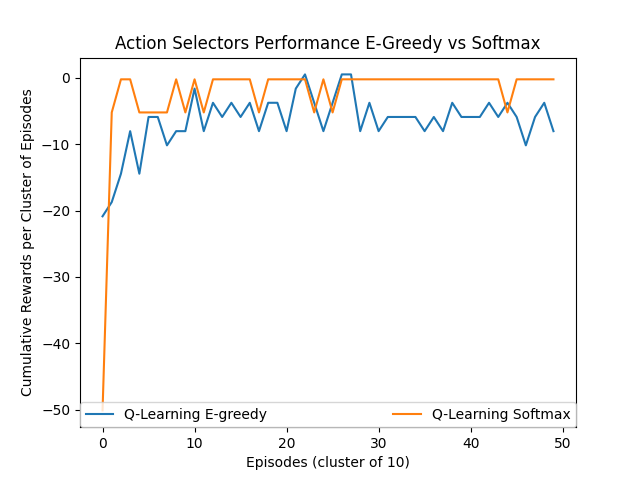
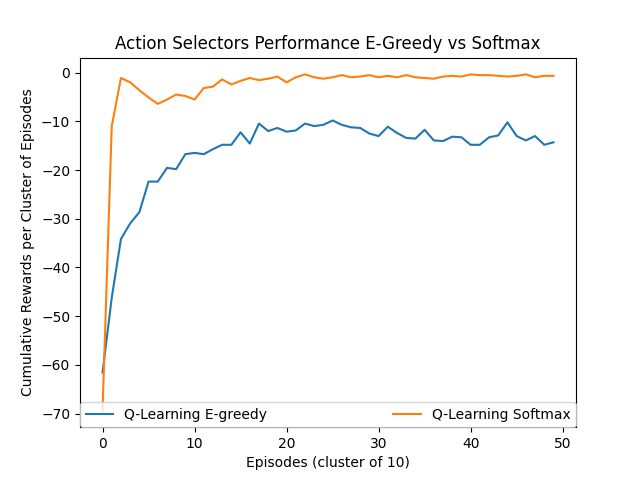
Updated version

diff --git a/CliffWorld.py b/CliffWorld.py
@@ -221,22 +221,23 @@ def plot_cumreward_normalized(reward_cache_qlearning, reward_cache_SARSA):
     # prepare the graph  
 
     """Uncomment this to create a plot about Q-learning vs SARSA"""
-    plt.plot(cum_rewards_q, label = "Q-Learning")
-    plt.plot(cum_rewards_SARSA, label = "SARSA")
-    plt.ylabel('Cumulative Rewards per Cluster of Episodes')
-    plt.xlabel('Episodes (cluster of 10)')
-    plt.title("Q-Learning/SARSA Performance")
-    plt.legend(loc='lower right', ncol=2, mode="expand", borderaxespad=0.)
-    plt.savefig('performance-qlearning-sarsa')
-
-    """Uncomment this to create a plot about softmax vs e-greedy"""
-    # plt.plot(cum_rewards_q, label = "Q-Learning E-greedy")
-    # plt.plot(cum_rewards_SARSA, label = "Q-Learning Softmax")
+    # plt.plot(cum_rewards_q, label = "Q-Learning")
+    # plt.plot(cum_rewards_SARSA, label = "SARSA")
     # plt.ylabel('Cumulative Rewards per Cluster of Episodes')
     # plt.xlabel('Episodes (cluster of 10)')
-    # plt.title("Action Selectors Performance E-Greedy vs Softmax")
+    # plt.yticks(np.arange(-60, 1, step=10))  # Set label locations.
+    # plt.title("Q-Learning/SARSA Performance")
     # plt.legend(loc='lower right', ncol=2, mode="expand", borderaxespad=0.)
-    # plt.savefig('performance-action-selectors')
+    # plt.savefig('performance-qlearning-sarsa_epsilon01')
+
+    """Uncomment this to create a plot about softmax vs e-greedy"""
+    plt.plot(cum_rewards_q, label = "Q-Learning E-greedy")
+    plt.plot(cum_rewards_SARSA, label = "Q-Learning Softmax")
+    plt.ylabel('Cumulative Rewards per Cluster of Episodes')
+    plt.xlabel('Episodes (cluster of 10)')
+    plt.title("Action Selectors Performance E-Greedy vs Softmax")
+    plt.legend(loc='lower right', ncol=2, mode="expand", borderaxespad=0.)
+    plt.savefig('performance-action-selectors')
 
 def plot_cumreward_normalized_temperatures(reward_cache1, reward_cache2, reward_cache3, reward_cache4):
     cum_rewards_1 = []
@@ -346,46 +347,76 @@ if __name__ == "__main__":
     """To Generate Figure Performance SARSA with softmax different temperatures
         uncomment to use
     """
-    # ag = Agent(epsilon=0.1, lr=0.1, sarsa=False, softmax=True, temp=0.5) #settings for agent
-    # reward_cache_temp05, _ = ag.learn(iterations=500) #used for training the agent 
-    # calculateOptimalPolicy(ag) #calculating optimal policy
+    # reward_cache_temp05_sum = []
+    # for i in range(1,10):
+    #     ag = Agent(epsilon=0.1, lr=0.1, sarsa=False, softmax=True, temp=0.5) #settings for agent
+    #     reward_cache_temp05, _ = ag.learn(iterations=500) #used for training the agent 
+    #     if i == 1: reward_cache_temp05_sum = reward_cache_temp05
+    #     else: reward_cache_temp05_sum = [a + b for a, b in zip(reward_cache_temp05_sum, reward_cache_temp05)]
+    # end_data_reward_cache_temp05 = [a / 10 for a in reward_cache_temp05_sum]
 
-    # ag = Agent(epsilon=0.1, lr=0.1, sarsa=True, softmax=True, temp=0.9) #settings for agent
-    # reward_cache_temp09, _ = ag.learn(iterations=500) #used for training the agent 
-    # calculateOptimalPolicy(ag)
+    # reward_cache_temp09_sum = []
+    # for i in range(1,10):
+    #     ag = Agent(epsilon=0.1, lr=0.1, sarsa=False, softmax=True, temp=0.9) #settings for agent
+    #     reward_cache_temp09, _ = ag.learn(iterations=500) #used for training the agent 
+    #     if i == 1: reward_cache_temp09_sum = reward_cache_temp09
+    #     else: reward_cache_temp09_sum = [a + b for a, b in zip(reward_cache_temp09_sum, reward_cache_temp09)]
+    # end_data_reward_cache_temp09 = [a / 10 for a in reward_cache_temp09_sum]
 
-    # ag = Agent(epsilon=0.1, lr=0.1, sarsa=False, softmax=True, temp=5) #settings for agent
-    # reward_cache_temp5, _ = ag.learn(iterations=500) #used for training the agent 
-    # calculateOptimalPolicy(ag) #calculating optimal policy
+    # reward_cache_temp5_sum = []
+    # for i in range(1,10):
+    #     ag = Agent(epsilon=0.1, lr=0.1, sarsa=False, softmax=True, temp=5) #settings for agent
+    #     reward_cache_temp5, _ = ag.learn(iterations=500) #used for training the agent 
+    #     if i == 1: reward_cache_temp5_sum = reward_cache_temp5
+    #     else: reward_cache_temp5_sum = [a + b for a, b in zip(reward_cache_temp5_sum, reward_cache_temp5)]
+    # end_data_reward_cache_temp5 = [a / 10 for a in reward_cache_temp5_sum]
 
-    # ag = Agent(epsilon=0.1, lr=0.1, sarsa=False, softmax=True, temp=15) #settings for agent
-    # reward_cache_temp15, _ = ag.learn(iterations=500) #used for training the agent 
-    # calculateOptimalPolicy(ag) #calculating optimal policy
+    # reward_cache_temp15_sum = []
+    # for i in range(1,10):
+    #     ag = Agent(epsilon=0.1, lr=0.1, sarsa=False, softmax=True, temp=5) #settings for agent
+    #     reward_cache_temp15, _ = ag.learn(iterations=500) #used for training the agent 
+    #     if i == 1: reward_cache_temp15_sum = reward_cache_temp15
+    # end_data_reward_cache_temp15 = [a / 10 for a in reward_cache_temp15_sum]
 
-    # plot_cumreward_normalized_temperatures(reward_cache_temp05, reward_cache_temp09, reward_cache_temp5, reward_cache_temp15)
+    # plot_cumreward_normalized_temperatures(end_data_reward_cache_temp05, end_data_reward_cache_temp09, end_data_reward_cache_temp5, end_data_reward_cache_temp15)
 
     """To Generate Figure Q-learning softmax vs e-greedy
         uncomment to use
     """
-    # ag = Agent(epsilon=0.1, lr=0.1, sarsa=False, softmax=False) #settings for agent
-    # reward_cache_q_learning, _ = ag.learn(iterations=500) #used for training the agent 
-    # calculateOptimalPolicy(ag)
+    reward_cache_e_greedy_sum = []
+    for i in range(1,50):
+        ag = Agent(epsilon=0.1, lr=0.1, sarsa=False, softmax=False) #settings for agent
+        reward_cache_e_greedy, _ = ag.learn(iterations=500) #used for training the agent
+        if i == 1: reward_cache_e_greedy_sum = reward_cache_e_greedy
+        else: reward_cache_e_greedy_sum = [a + b for a, b in zip(reward_cache_e_greedy_sum, reward_cache_e_greedy)]
+    end_data_e_greedy = [a / 50 for a in reward_cache_e_greedy_sum] 
 
-    # ag = Agent(epsilon=0.1, lr=0.1, sarsa=False, softmax=True) #settings for agent
-    # reward_cache_sarsa, _ = ag.learn(iterations=500) #used for training the agent 
-    # calculateOptimalPolicy(ag) #calculating optimal policy
+    reward_cache_softmax_sum = []
+    for i in range(1,50):
+        ag = Agent(epsilon=0.1, lr=0.1, sarsa=False, softmax=True) #settings for agent
+        reward_cache_softmax, _ = ag.learn(iterations=500) #used for training the agent
+        if i == 1: reward_cache_softmax_sum = reward_cache_softmax
+        else: reward_cache_softmax_sum = [a + b for a, b in zip(reward_cache_softmax_sum, reward_cache_softmax)]
+    end_data_softmax = [a / 50 for a in reward_cache_softmax_sum] 
 
-    # plot_cumreward_normalized(reward_cache_q_learning, reward_cache_sarsa)
+    plot_cumreward_normalized(end_data_e_greedy, end_data_softmax)
     
     """To Generate Figure Performance Q-learning vs Sarsa
         uncomment to use
     """
-    ag = Agent(epsilon=0.1, lr=0.1, sarsa=False, softmax=False) #settings for agent
-    reward_cache_q_learning, _ = ag.learn(iterations=500) #used for training the agent 
-    calculateOptimalPolicy(ag)
-
-    ag = Agent(epsilon=0.1, lr=0.1, sarsa=True, softmax=False) #settings for agent
-    reward_cache_sarsa, _ = ag.learn(iterations=500) #used for training the agent 
-    calculateOptimalPolicy(ag) #calculating optimal policy
-
-    plot_cumreward_normalized(reward_cache_q_learning, reward_cache_sarsa)
+    # reward_cache_q_learning_sum = []
+    # for i in range(1,50):
+    #     ag = Agent(epsilon=0.1, lr=0.1, sarsa=False, softmax=False) #settings for agent
+    #     reward_cache_q_learning, _ = ag.learn(iterations=500) #used for training the agent 
+    #     if i == 1: reward_cache_q_learning_sum = reward_cache_q_learning
+    #     else: reward_cache_q_learning_sum = [a + b for a, b in zip(reward_cache_q_learning_sum, reward_cache_q_learning)]
+    # end_data_q_learning = [a / 50 for a in reward_cache_q_learning_sum]
+    
+    # reward_cache_sarsa_sum = []
+    # for i in range(1,50):
+    #     ag = Agent(epsilon=0.1, lr=0.1, sarsa=True, softmax=False) #settings for agent
+    #     reward_cache_sarsa, _ = ag.learn(iterations=500) #used for training the agent 
+    #     if i == 1: reward_cache_sarsa_sum = reward_cache_sarsa
+    #     else: reward_cache_sarsa_sum = [a + b for a, b in zip(reward_cache_sarsa_sum, reward_cache_sarsa)]
+    # end_data_sarsa = [a / 50 for a in reward_cache_sarsa_sum]
+    # plot_cumreward_normalized(end_data_q_learning, end_data_sarsa)
